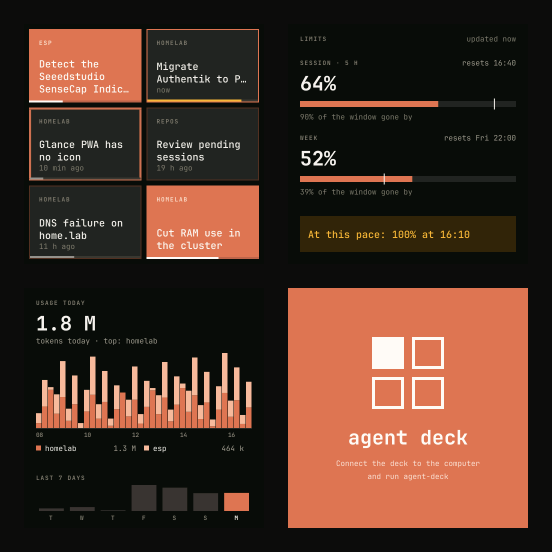
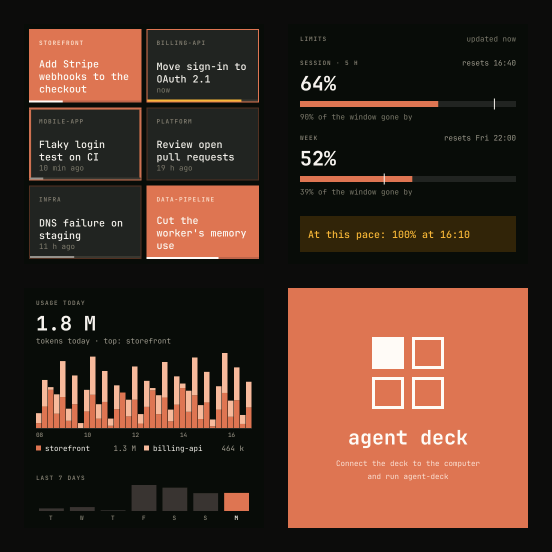
docs: screenshots with made-up projects

diff --git a/crates/deck-ui/examples/snapshot.rs b/crates/deck-ui/examples/snapshot.rs
@@ -26,18 +26,18 @@ const OVERVIEW_GAP: usize = 24;
 type Sample<'a> = (&'a str, &'a str, &'a str, &'a str, i32);
 
 const SESSIONS: [Sample; 12] = [
-    ("busy", "Detect the Seeedstudio SenseCap Indicator", "esp", "", 30),
-    ("ready", "Migrate Authentik to Pocket ID", "homelab", "now", 85),
-    ("wait", "Glance PWA has no icon", "homelab", "10 min ago", 12),
-    ("idle", "Review pending sessions", "repos", "19 h ago", -1),
-    ("idle", "DNS failure on home.lab", "homelab", "11 h ago", 40),
-    ("busy", "Cut RAM use in the cluster", "homelab", "", 64),
-    ("ready", "Tests for grid paging", "agent-deck", "2 min ago", 47),
-    ("idle", "Back up Postgres to S3", "homelab", "2 d ago", 22),
-    ("busy", "Refactor the protocol parser", "agent-deck", "", 58),
-    ("idle", "Notes for the Rust talk", "notes", "3 d ago", -1),
-    ("wait", "Write permissions on /srv", "homelab", "1 min ago", 33),
-    ("idle", "Update dotfiles to zsh 5.9", "dotfiles", "6 h ago", 15),
+    ("busy", "Add Stripe webhooks to the checkout", "storefront", "", 30),
+    ("ready", "Move sign-in to OAuth 2.1", "billing-api", "now", 85),
+    ("wait", "Flaky login test on CI", "mobile-app", "10 min ago", 12),
+    ("idle", "Review open pull requests", "platform", "19 h ago", -1),
+    ("idle", "DNS failure on staging", "infra", "11 h ago", 40),
+    ("busy", "Cut the worker's memory use", "data-pipeline", "", 64),
+    ("ready", "Tests for invoice paging", "billing-api", "2 min ago", 47),
+    ("idle", "Back up Postgres to S3", "infra", "2 d ago", 22),
+    ("busy", "Refactor the CSV importer", "data-pipeline", "", 58),
+    ("idle", "Draft the release notes", "docs-site", "3 d ago", -1),
+    ("wait", "Write access to /var/app", "infra", "1 min ago", 33),
+    ("idle", "Upgrade React Native to 0.80", "mobile-app", "6 h ago", 15),
 ];
 
 /// Subagents running per session, for the `*-agents` snapshots: busy tiles with several, a
@@ -52,9 +52,9 @@ fn state(sessions: &[Sample], agents: &[u32]) -> State {
     }
     snap += "E\n";
     snap += "L\t64\tresets 16:40\t90\t52\tresets Fri 22:00\t39\tAt this pace: 100% at 16:10\tnow\n";
-    snap += "C\tB\nC\tH\t32\t36\t1.8 M\ttokens today · top: homelab\n";
+    snap += "C\tB\nC\tH\t32\t36\t1.8 M\ttokens today · top: storefront\n";
     let bars = |k: u32| (0..36).map(|i| ((i * 37 + k * 11) % 90).to_string()).collect::<Vec<_>>().join(",");
-    writeln!(snap, "C\tS\thomelab\t1.3 M\t{}\nC\tS\tesp\t464 k\t{}", bars(1), bars(2)).unwrap();
+    writeln!(snap, "C\tS\tstorefront\t1.3 M\t{}\nC\tS\tbilling-api\t464 k\t{}", bars(1), bars(2)).unwrap();
     snap += "C\tD\tT,W,T,F,S,S,M\t259,390,71,2585,2325,1776,1800\t6\nC\tE\n";
     let mut s = State::default();
     s.feed(snap.as_bytes(), NOW);
@@ -161,12 +161,12 @@ fn main() {
     st.summary = Some(Summary {
         id: "cli:0".into(),
         loaded: true,
-        meta: "esp · main · 30% of context".into(),
-        you: "The panel stays black on boot, can you find out why?".into(),
-        claude: "The panel reset goes through the I/O expander, and I was releasing it before setting up \
-                 the SPI bus. I'll move the expander init to the start and try again."
+        meta: "storefront · main · 30% of context".into(),
+        you: "Checkout hangs after paying with a saved card, can you find out why?".into(),
+        claude: "The webhook waits for an order that is only created after the redirect. I'll create the \
+                 order first and let the webhook mark it as paid."
             .into(),
-        tool: "Editing firmware/src/display.rs".into(),
+        tool: "Editing src/checkout/webhooks.ts".into(),
         agents: Vec::new(),
     });
     let mut ui = Ui::new();
@@ -176,8 +176,8 @@ fn main() {
     // holding a session that waits on Claude's question: the options, ready to tap
     let mut st = state(&SESSIONS[..4], &[]);
     st.summary = Some(Summary { id: "cli:2".into(), loaded: true, ..Default::default() });
-    let question = "Q\tcli:2\tWhere should the PWA icons go?\t1.In /static, served by Glance\t\
-                    2.In an S3 bucket with its own cache\t3.Generate them at build time\n";
+    let question = "Q\tcli:2\tHow should we fix the flaky login test?\t1.Wait for the network to go idle\t\
+                    2.Mock the auth server in tests\t3.Retry the test up to 3 times\n";
     st.feed(question.as_bytes(), NOW);
     let mut ui = Ui::new();
     ui.layout(&st);
@@ -194,16 +194,16 @@ fn main() {
     st.summary = Some(Summary {
         id: "cli:0".into(),
         loaded: true,
-        meta: "Started 2 h ago · 14 messages · esp · active now".into(),
-        you: "Find out why the panel flickers when switching screens and suggest a fix.".into(),
-        claude: "Starting three subagents: one looks for where it redraws, one times each band and one \
-                 checks the bus init."
+        meta: "Started 2 h ago · 14 messages · storefront · active now".into(),
+        you: "Find out why checkout is slow on mobile and suggest a fix.".into(),
+        claude: "Starting three subagents: one looks for slow API calls, one profiles the page load and one \
+                 reviews the bundle size."
             .into(),
-        tool: "Agent: Find uses of tile_rect".into(),
+        tool: "Agent: Find slow API calls".into(),
         agents: vec![
-            agent("Explore", "Find uses of tile_rect", "3 min", "Grep: tile_rect"),
-            agent("general-purpose", "Time the drawing of each band", "2 min", "Bash: cargo test --release"),
-            agent("Plan", "Check the SPI bus init", "40 s", ""),
+            agent("Explore", "Find slow API calls", "3 min", "Grep: fetch("),
+            agent("general-purpose", "Profile the checkout page load", "2 min", "Bash: npm run lighthouse"),
+            agent("Plan", "Review the JS bundle size", "40 s", ""),
         ],
     });
     let mut ui = Ui::new();
